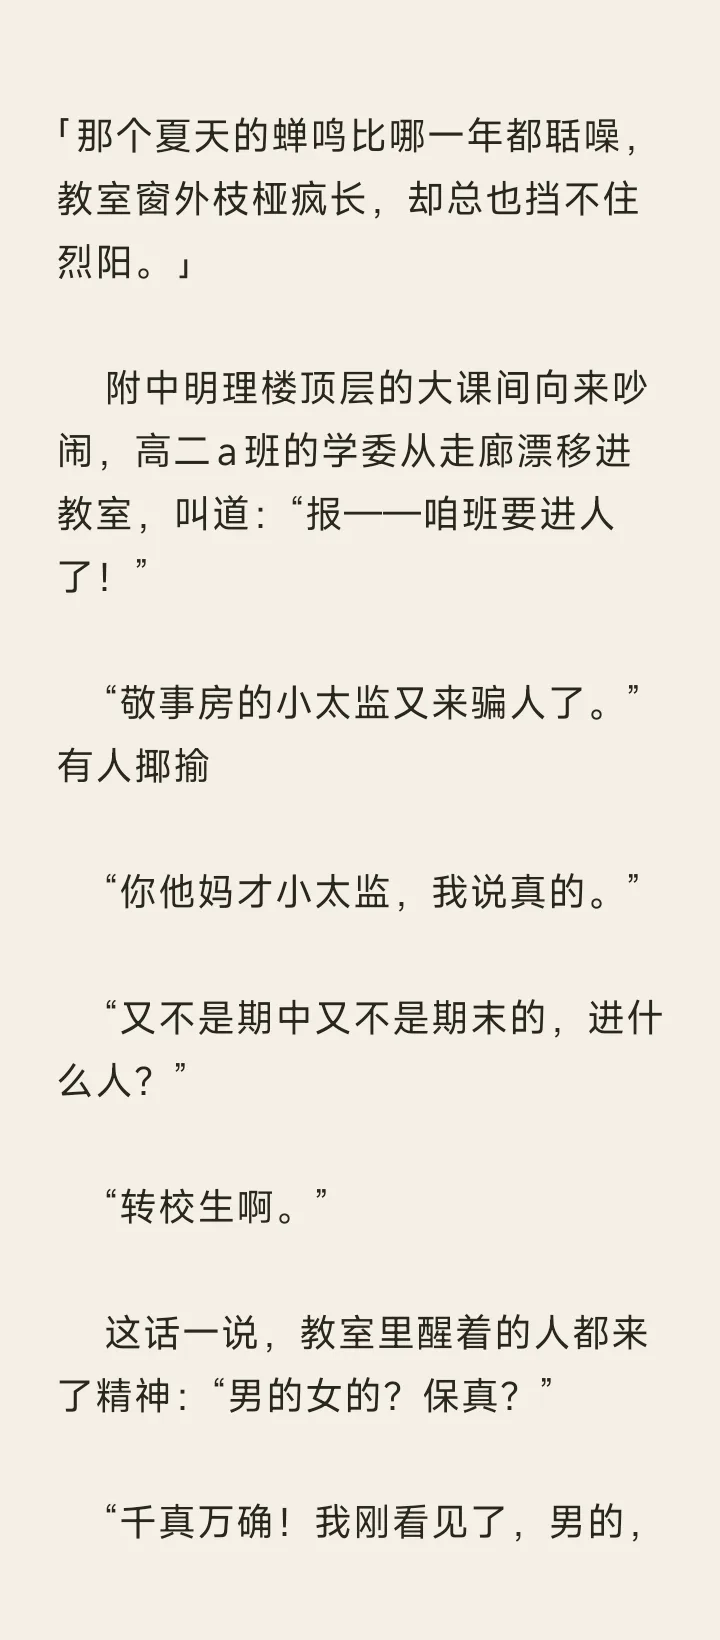
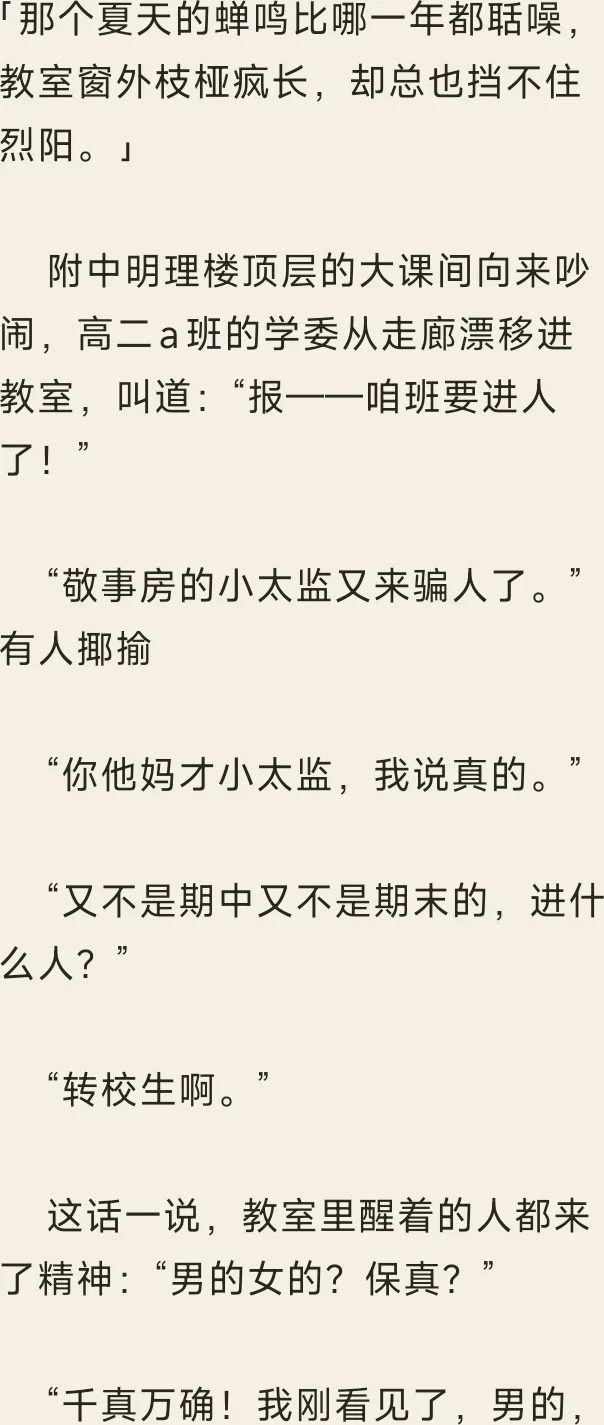
fix(download): trim screenshot margins and let the phone frame follow the image
The six screenshots carried a uniform background margin (up to 92px top,
58px sides), which showed as pale bands inside the 9:19.5 phone frame.

Trim the baked-in margin from every asset and set the frame's aspect
ratio from the image's own dimensions, with object-fit: cover as a
safety net. Also skip the reading-line IntersectionObserver when the
viewport height is under 2px, which previously produced the invalid
rootMargin "--1px" and broke the page.

diff --git a/tests/download-screenshot-fallback.test.js b/tests/download-screenshot-fallback.test.js
@@ -4,12 +4,12 @@ import { readFileSync, statSync } from 'node:fs';
 
 const read = path => readFileSync(new URL(path, import.meta.url), 'utf8');
 const SLOTS = [
-  ['community-light', 'community-light', 720, 1640],
-  ['community-dark', 'community-dark', 720, 1563],
-  ['rankings-light', 'rankings-light', 720, 1640],
-  ['rankings-dark', 'rankings-dark', 720, 1640],
-  ['reading-light', 'reading-light', 720, 1640],
-  ['reading-dark', 'reading-dark', 720, 1640],
+  ['community-light', 'community-light', 719, 1519],
+  ['community-dark', 'community-dark', 672, 1521],
+  ['rankings-light', 'rankings-light', 672, 1536],
+  ['rankings-dark', 'rankings-dark', 647, 1475],
+  ['reading-light', 'reading-light', 604, 1425],
+  ['reading-dark', 'reading-dark', 604, 1425],
 ];
 
 test('six bundled screenshots exist as real WebP assets', () => {
@@ -38,4 +38,12 @@ test('the download hook falls back only when the backend has no image', () => {
     assert.match(source, new RegExp(`withFallback\\('${feature}', ${feature}\\)`), feature);
   }
   assert.match(source, /const withFallback = \(feature, image\) => image \?\? fallbackDownloadScreenshot\(feature, effective\);/);
+});
+
+test('the phone frame hugs the screenshot so no background band shows', () => {
+  const page = read('../src/pages/AppDownload.jsx');
+  assert.match(page, /className="adl-phone"[^>]*aspectRatio: `\$\{image\.width\} \/ \$\{image\.height\}`/, 'frame ratio comes from the image');
+  const css = read('../src/pages/AppDownload.css');
+  assert.match(css, /\.adl-phone img \{[^}]*object-fit: cover;/, 'the image fills the frame');
+  assert.match(css, /\.adl-phone img \{[^}]*object-position: top;/, 'cropping stays at the bottom');
 });

diff --git a/src/pages/AppDownload.jsx b/src/pages/AppDownload.jsx
@@ -114,7 +114,8 @@ function ScreenImage({ feature, image, decorative = false }) {
 }
 
 function Phone({ feature, image, decorative = false }) {
-  return <div className="adl-phone" data-tone={feature.tone}><ScreenImage feature={feature} image={image} decorative={decorative} /></div>;
+  // 机身按截图本身的比例收缩，避免固定比例在边缘留下背景色条。
+  return <div className="adl-phone" data-tone={feature.tone} style={{ aspectRatio: `${image.width} / ${image.height}` }}><ScreenImage feature={feature} image={image} decorative={decorative} /></div>;
 }
 
 function HeroScreenshots({ images }) {
@@ -140,11 +141,14 @@ function FeatureShowcase({ images }) {
     function observeAtReadingLine() {
       observer?.disconnect();
       const height = window.innerHeight;
+      // 视口高度为 0 时（隐藏页签、内嵌零高度容器）无法构造合法的负边距。
+      if (height < 2) return;
       const top = Math.round(height * 0.28);
+      const bottom = Math.max(0, Math.round(height - top - 1));
       observer = new IntersectionObserver(entries => {
         const visible = entries.find(entry => entry.isIntersecting);
         if (visible) setActive(articleRefs.current.indexOf(visible.target));
-      }, { rootMargin: `-${top}px 0px -${height - top - 1}px 0px` });
+      }, { rootMargin: `-${top}px 0px -${bottom}px 0px` });
       articleRefs.current.forEach(article => { if (article) observer.observe(article); });
     }
     observeAtReadingLine();

diff --git a/src/pages/downloadScreenshotFallback.js b/src/pages/downloadScreenshotFallback.js
@@ -8,12 +8,12 @@ import readingLight from '../assets/app-download/reading-light.webp';
 // 后端还没有为某个槽位配置截图时，下载页使用随前端一同发布的实机截图。
 // 管理员上传后，后端图片优先；删除槽位后又回到这里的内置图。
 export const DOWNLOAD_SCREENSHOT_FALLBACK = {
-  'community-light': { url: communityLight, width: 720, height: 1640 },
-  'community-dark': { url: communityDark, width: 720, height: 1563 },
-  'rankings-light': { url: rankingsLight, width: 720, height: 1640 },
-  'rankings-dark': { url: rankingsDark, width: 720, height: 1640 },
-  'reading-light': { url: readingLight, width: 720, height: 1640 },
-  'reading-dark': { url: readingDark, width: 720, height: 1640 },
+  'community-light': { url: communityLight, width: 719, height: 1519 },
+  'community-dark': { url: communityDark, width: 672, height: 1521 },
+  'rankings-light': { url: rankingsLight, width: 672, height: 1536 },
+  'rankings-dark': { url: rankingsDark, width: 647, height: 1475 },
+  'reading-light': { url: readingLight, width: 604, height: 1425 },
+  'reading-dark': { url: readingDark, width: 604, height: 1425 },
 };
 
 export function fallbackDownloadScreenshot(feature, theme) {

diff --git a/src/pages/AppDownload.css b/src/pages/AppDownload.css
@@ -134,7 +134,7 @@
   --adl-highlight: color-mix(in srgb, var(--adl-ink) var(--adl-tone-ink-share), var(--adl-tone));
 }
 .adl-phone { position: relative; overflow: hidden; aspect-ratio: 9 / 19.5; border: 4px solid #181820; border-radius: clamp(16px, 2.4vw, 28px); background: var(--adl-screen); box-shadow: 0 16px 40px #12121a55; }
-.adl-phone img { display: block; width: 100%; height: 100%; object-fit: contain; object-position: top; }
+.adl-phone img { display: block; width: 100%; height: 100%; object-fit: cover; object-position: top; }
 
 .adl-kicker { display: flex; align-items: center; gap: 10px; color: var(--adl-highlight); font-size: 13px; font-weight: 750; letter-spacing: .055em; }
 .adl-kicker span { display: inline-flex; align-items: center; gap: 10px; }
